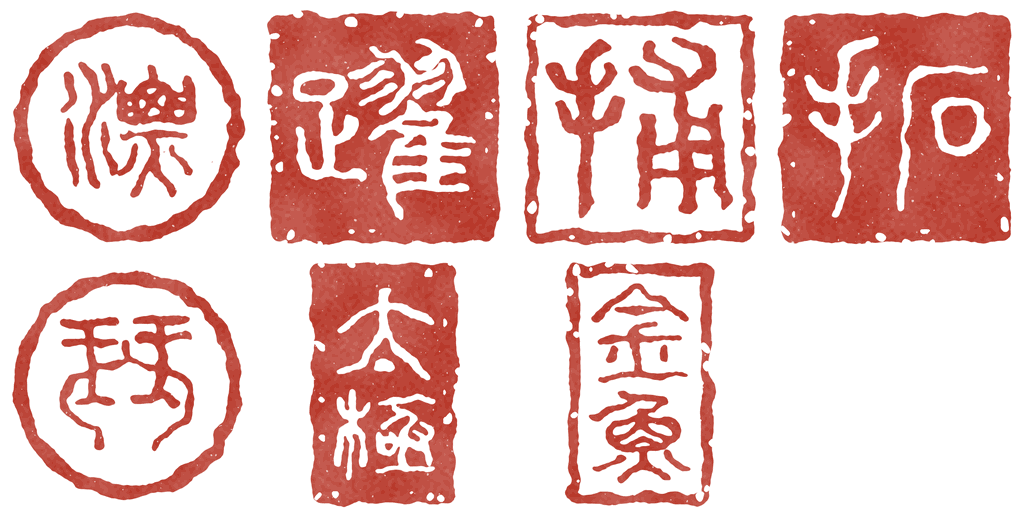
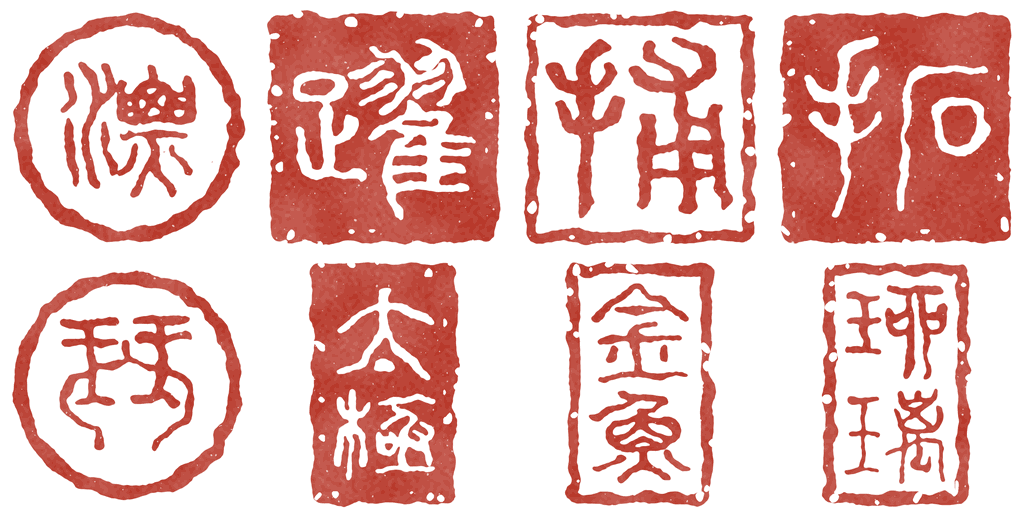
feat(pond): the last leap: the visitor's koi goes down as a dragon (#362)
* feat(pond): the Dragon Gate, waiting for its dragon's picture

Every third leap of a visit, the koi goes as a dragon: it winds once
round the open water and climbs away over the top, with ripples under
it, a gold light about its head on the water, and the seal 龙.

The dragon is a painted sheet laid in slices along the way its head has
gone, as a painted koi is laid along its spine. No picture has come
yet, so no dragon rises and the seal is a preview: nothing a visitor
sees changes. The brief for the picture is "The dragon sheet" in
docs/agents/pond.md, and docs/agents/pond-handoff.md says how the
thread that paints it hands it back.

Claude-Session: https://claude.ai/code/session_01NUmm5dS9r3NtvAbw8n1VEZ

* docs(pond): ask for the Dragon Gate's seal on the second sheet

The seal 龙 takes one of the two empty cells of the second sheet of
seals, which is still asked for; until it comes the seal is its
character in the brush, as the other idle seals are.

Claude-Session: https://claude.ai/code/session_01NUmm5dS9r3NtvAbw8n1VEZ

* feat(pond): add two painted clues and the occasions' seals

What the brief asked of the local thread:

- Monet's clue, a lily pad in the painting's hand with its rim alone
  in the bowl's cobalt, and the bowl's clue, a reign mark under a film
  of ochre dust with strokes wiped through it. Both are from the image
  model, reduced to the sizes asked and feathered to nothing.
- A second sheet of seals for the volume of occasions: 雨, 雪, 月, 节,
[…]

Changed region(s): [[0.7812, 0.5, 0.9688, 1.0]]

diff --git a/src/pond/engine.js b/src/pond/engine.js
@@ -44,7 +44,7 @@ import { titleWords } from './words';
 import { describe, rub, strokeLifted, strokeMoving, tapsLook, thrown } from './gestures';
 import { crowdsPainting, underPainting } from './hang.js';
 import { paintingOf, seasonAmounts } from './seasons.js';
-import { dragonCopy, dragonHead, dragonSrc, drawDragon, drawDragonStars, makeDragon } from './dragon.js';
+import { dragonCopy, dragonHead, dragonSpine, dragonSrc, drawDragon, drawDragonStars, makeDragon } from './dragon.js';
 import {
   KOI_SHEETS,
   MONET,
@@ -2390,7 +2390,10 @@ function leapNow() {
   if (gather.n < 4 || T - gather.at > 8) return;
   const near = kois.filter((k) => k !== you && k.alpha > 0.5 && Math.hypot(k.x - gather.x, k.y - gather.y) < 170);
   if (near.length < 3) return;
-  const k = near.reduce((a, b) => (b.size > a.size ? b : a));
+  // The last leap: with every look found, the first leap of a visit is the visitor's own koi's, and it goes
+  // as a dragon that does not leave over the top but winds down into the middle of the pond.
+  const last = !lastLeap && you.alpha > 0.5 && dragonPic() && VOLS.slice(0, 2).every((v) => full(album, v)),
+    k = last ? you : near.reduce((a, b) => (b.size > a.size ? b : a));
   gather.n = 0;
   k.leap = T;
   k.burst = 1;
@@ -2400,6 +2403,10 @@ function leapNow() {
   // every third leap of a visit clears the Dragon Gate, where the look on show has a dragon: at the top of
   // it the koi does not turn back
   const gate = dragonPic();
+  if (last) {
+    lastLeap = true;
+    return void setTimeout(() => riseDragon(k, null, true), 550);
+  }
   if (++leaps % 3 === 0 && gate) return void setTimeout(() => riseDragon(k), 550);
   setTimeout(() => {
     drop(k.x, k.y, 5.5, 2.4);
@@ -2439,7 +2446,8 @@ addEventListener('keydown', (e) => {
 // the water, lighting it gold. The koi is back in the pond once the dragon has gone, and the visit has its
 // seal. Its picture is fetched at the first leap, so it has come by the third. (`pin` holds the dragon at one
 // moment and `src` is a picture to try, both for a tool: `window.__pond.dragon`.)
-let leaps = 0;
+let leaps = 0,
+  lastLeap = false;
 const dragon = { d: null, k: null, at: 0, pin: null, src: '', wake: 0, x: 0, y: 0, lit: 0 },
   dragonPics = new Map();
 function dragonPic() {
@@ -2458,10 +2466,10 @@ function dragonPic() {
   }
   return dragonPics.get(src);
 }
-function riseDragon(k, pin) {
+function riseDragon(k, pin, dive) {
   // (one dragon at a time: the koi of one still in the air is let back first)
   if (dragon.d) dragon.k.shown = true;
-  Object.assign(dragon, { d: makeDragon(k.x, k.y, W, H), k, at: performance.now() / 1000, pin: pin ?? null });
+  Object.assign(dragon, { d: makeDragon(k.x, k.y, W, H, dive), k, at: performance.now() / 1000, pin: pin ?? null });
   k.shown = false;
   drop(k.x, k.y, 7, 3);
   plip('dragon');
@@ -2476,6 +2484,8 @@ function dragonNow() {
   const t = dragon.pin ?? performance.now() / 1000 - dragon.at;
   // (gone over the top, or the look changed to one that has no dragon)
   if (t > d.time || !pic) {
+    // (where one went down, the water closes over it)
+    if (d.at && pic) drop(d.at[0], d.at[1], 8, 3.5);
     dragon.d = null;
     dragon.k.shown = true;
     reached('leap');
@@ -2484,7 +2494,10 @@ function dragonNow() {
   }
   [dragon.x, dragon.y] = dragonHead(d, t);
   dragon.lit = Math.min(1, t / 0.8, (d.time - t) / 1.5);
-  if (T > dragon.wake && dragon.y > 0) {
+  // (once its head has gone down it neither lights the water nor ripples it)
+  const under = d.hole >= 0 && dragonSpine(d, t, 1, 1).head > d.hole;
+  if (under) dragon.lit = 0;
+  if (T > dragon.wake && dragon.y > 0 && !under) {
     drop(dragon.x, dragon.y, 2.2, 0.45);
     dragon.wake = T + 0.1;
   }
@@ -3608,9 +3621,9 @@ if (PERF)
     bugs: () => bugs.length,
     // the dragon, now: held at `pin` seconds if given, and from the picture at `src` if given (one to try
     // before it is listed in DRAGONS); false until the picture has come
-    dragon: (pin, src) => {
+    dragon: (pin, src, dive) => {
       dragon.src = src || '';
-      return !!dragonPic() && (riseDragon(kois.find((k) => k !== you) || you, pin), true);
+      return !!dragonPic() && (riseDragon(kois.find((k) => k !== you) || you, pin, dive), true);
     },
     race: () => ({ fest: pv.fest, k: (performance.now() / 1000 - pv.boatAt) / 40, strokes: pv.strokes, won: pv.won }),
     pads: () => padSpots.map((q) => [Math.round(q.x), Math.round(q.y), Math.round(q.r)])

diff --git a/src/pond/dragon.js b/src/pond/dragon.js
@@ -41,7 +41,7 @@ export const dragonScale = (W, H) => clamp(Math.min(W, H) / 800, 0.55, 1.15);
  * then turns up and climbs away, faster, until the last of its tail has left over the top. `time` is how
  * long that takes.
  */
-export function makeDragon(x0, y0, W, H) {
+export function makeDragon(x0, y0, W, H, dive = false) {
   const s = dragonScale(W, H),
     wide = W > 860,
     cx = wide ? W * 0.66 : W / 2,
@@ -57,16 +57,19 @@ export function makeDragon(x0, y0, W, H) {
     la = Math.atan2(y0 - cy, x0 - cx),
     swept = 0,
     out = -1,
-    far = 0;
+    far = 0,
+    hole = -1,
+    at = null;
   for (let i = 1; i < 60 * 18; i++) {
     const t = i * dt,
       rx = x - cx,
       ry = y - cy,
       r = Math.hypot(rx, ry) || 1;
     // the way it wants to go: round the circle and back on to it, or, once round, up and away, drawing in
-    // over the circle's middle as it climbs so it never leaves by a side
-    let wx = clamp((cx - x) / 200, -0.3, 0.3),
-      wy = -1;
+    // over the circle's middle as it climbs so it never leaves by a side; one that dives makes for the
+    // circle's middle instead, and goes down there
+    let wx = dive ? (cx - x) / r : clamp((cx - x) / 200, -0.3, 0.3),
+      wy = dive ? (cy - y) / r : -1;
     if (out < 0) {
       const pull = clamp((R - r) / R, -1, 1) * 1.5;
       wx = (-ry * dir + rx * pull) / r;
@@ -81,16 +84,23 @@ export function makeDragon(x0, y0, W, H) {
     turn -= Math.round(turn / TAU) * TAU;
     h += clamp(turn, -2.2 * dt, 2.2 * dt);
     // it comes up slowly and leaves fast; its heading swings from side to side as a snake's does
-    const v = 300 * s * (0.3 + 0.7 * ease(t / 1.2)) * (out < 0 ? 1 : 1 + 1.7 * ease((t - out) / 1.5)),
+    const v = 300 * s * (0.3 + 0.7 * ease(t / 1.2)) * (out < 0 ? 1 : dive ? clamp(r / (200 * s), 0.4, 1) : 1 + 1.7 * ease((t - out) / 1.5)),
       a = h + 0.4 * Math.sin((far / (230 * s)) * TAU);
     x += Math.cos(a) * v * dt;
     y += Math.sin(a) * v * dt;
     far += v * dt;
     path.push([x, y]);
     cum.push(far);
-    if (out >= 0 && y < -(LONG + 110) * s) break;
+    if (out >= 0 && !dive && y < -(LONG + 110) * s) break;
+    // (the place it goes down at, `at`, is where it first comes to the middle; its way runs on past it until
+    // the last of its tail has gone down too)
+    if (dive && out >= 0 && hole < 0 && r < 60 * s) {
+      hole = far;
+      at = [x, y];
+    }
+    if (hole >= 0 && far > hole + (LONG + 40) * s) break;
   }
-  return { path, cum, s, time: (path.length - 1) / 60 };
+  return { path, cum, s, hole, at, time: (path.length - 1) / 60 };
 }
 
 /** Its spine t seconds after it rose, head first, a joint every `ds` px: only as much of it as has come up. */
@@ -108,6 +118,7 @@ export function dragonSpine(d, t, ds, n) {
     const q = (at - cum[j]) / (cum[j + 1] - cum[j] || 1);
     P.push([path[j][0] + (path[j + 1][0] - path[j][0]) * q, path[j][1] + (path[j + 1][1] - path[j][1]) * q]);
   }
+  P.head = head;
   return P;
 }
 
@@ -139,13 +150,17 @@ export function drawDragon(c, d, t, pic, m = 1) {
     // its claws: else what stands out from the body fans open into a comb
     let turn = i < P.length - 2 ? way(i + 1) - a : 0;
     turn -= Math.round(turn / TAU) * TAU;
+    // (one that dives narrows to nothing as each part of it comes to the place it goes down at)
+    const deep = d.hole >= 0 ? clamp((d.hole - (P.head - (i * len) / n)) / (110 * d.s), 0, 1) : 1;
+    if (deep <= 0) continue;
     const more = Math.min(16 * d.s, Math.abs(turn) * h * 0.36),
       sx = SHEET.x0 + (span * i) / n,
       sw = Math.min(span / n + more / k + 1.5, SHEET.x1 + 40 - sx);
     c.save();
     c.translate(x0, y0);
     c.rotate(a);
-    c.drawImage(pic, sx * m, 0, sw * m, SHEET.h * m, -0.4, -h / 2, sw * k, h);
+    c.globalAlpha *= deep;
+    c.drawImage(pic, sx * m, 0, sw * m, SHEET.h * m, -0.4, (-h / 2) * deep, sw * k, h * deep);
     c.restore();
   }
 }

diff --git a/src/pond/dragon.test.ts b/src/pond/dragon.test.ts
@@ -49,6 +49,25 @@ describe('the way the dragon goes', () => {
   });
 });
 
+describe('the dragon that dives', () => {
+  it('stays in the pond, comes to the middle of its circle and has gone down there, tail and all', () => {
+    for (const [W, H] of PONDS)
+      for (const [x, y] of starts(W, H)) {
+        const d = makeDragon(x, y, W, H, true);
+        expect(d.hole).toBeGreaterThan(0);
+        expect(d.time).toBeLessThan(18);
+        for (const [px, py] of d.path) {
+          expect(px).toBeGreaterThan(-60);
+          expect(px).toBeLessThan(W + 60);
+          expect(py).toBeGreaterThan(-60);
+          expect(py).toBeLessThan(H + 60);
+        }
+        // by the end the whole of it is past the place it went down at
+        expect(d.cum[d.cum.length - 1] - 720 * d.s).toBeGreaterThanOrEqual(d.hole);
+      }
+  });
+});
+
 describe('its spine', () => {
   const d = makeDragon(300, 560, 1280, 800);
   it('comes up out of the water a joint at a time, head first', () => {

diff --git a/docs/agents/pond.md b/docs/agents/pond.md
@@ -167,6 +167,11 @@ words did not reach, there only for whoever asks.
   stroke of the paddles (`paddle()`), each sending it on a second and a half; ten before it is
   across (`ROW`) and it is drummed in at the far bank, with the seal. With `?perf`,
   `window.__pond` has the koi's places, the pads and the bugs, for a tool to play them.
+  **The last leap** is the end of the pond's through-line (a koi's life: it is watched, it finds the
+  looks, it grows with each, it leaps, it goes down): once both volumes of looks are full, the first
+  leap of a visit is the visitor's own koi's, and its dragon does not leave over the top but winds
+  in to the middle of its circle and goes down there, narrowing to nothing (`lastLeap` in
+  `engine.js`, `makeDragon(…, dive)` in `dragon.js`). What lies under the pond is not built yet.
   And **the koi's circle** (太极), in ink only: the old cheat typed on the keys (up up down down left
   right left right B A) and for three quarters of a minute the visitor's koi and the gold one swim
   head to tail round one point, as the two fish of the taiji do, with the rest in a wide ring the
@@ -466,7 +471,7 @@ its red), entering at the right edge and reaching left, the left third empty.
 | `stems.webp` | 42 KB | Withered lotus (残荷), 1024 × 1024 like the others and stored the same way (near-black, the tone in the alpha): three dry stems entering from the right edge and folding over, a seed-pod hanging at 538, 236 and a curled dead leaf below it; the paint is 538, 236, 486, 587, and the left half is empty. Sparse, as asked; the stems are thin, so it may want more strength than the reeds when multiplied in. |
 | `seals.webp` | 94 KB | 1024 × 768, cells of 256, 4 × 3, vermilion `#B8382A` with the tone in the alpha. Row 1: 墨 (square, white characters out of red), 浮世 (tall, red characters and border), 莲 (round, white), 青花 (tall, white). Row 2: 敦煌 (tall, red), 光 (round, red), 图 (square, white), 字 (square, red). Row 3: 星 (round, white), 刻 (square, white), 锦程 (tall, white, 锦 over 程), one cell empty. Square and round seals are 232 across, centred; tall ones 150 × 246. Small seal script from the Shuowen Jiezi face of Taiwan's CNS 11643 character set (an open-data font, not in the repository), cut as a seal carver writes them: 蓮, 圖 and 錦 in their full forms, 花 as 華 (the Shuowen has no 花), and 星 as three suns over 生. The edges, chips and pinholes are made in code, so every stone is worn alike; the characters are a dictionary's even line, not a carver's hand. |
 | `seals-2.webp` | 59 KB | 1024 × 512, cells of 256, 4 × 2, cut and coloured as `seals.webp` is (the same face, vermilion, the tone in the alpha, 232 across and centred). Row 1: 雨 (square, white characters out of red), 雪 (round, white), 月 (round, red characters and border), 节 (square, red). Row 2: 晨 (square, white), 舟 (round, white), 龙 (round, red, cut in its full form 龍), one cell empty. 节 is cut as 節; the face has no 雪, so it is built as the Shuowen has it, rain over a broom (雨 over 彗), and its lower half is finer than the rest. 月 and 舟 are the seal forms, which a reader of modern characters may take for each other. |
-| `seals-3.webp` | 58 KB | 1024 × 512, cells of 256, 4 × 2, cut and coloured as the first two are. Row 1: 漂 (round, red characters and border), 跃 (square, white characters out of red, cut as 躍), 捕 (square, red), 拓 (square, white). Row 2: 琴 (round, red), 太极 (tall, white, 太 over 極), 金鱼 (tall, red, 金 over 魚), one cell empty. The face has no 太: it is its 大 with a point set between the legs, as seal script writes it, and the point is rounder than a cut one. 躍 is a dense character and its strokes are fine at the size a seal is shown. |
+| `seals-3.webp` | 65 KB | 1024 × 512, cells of 256, 4 × 2, cut and coloured as the first two are. Row 1: 漂 (round, red characters and border), 跃 (square, white characters out of red, cut as 躍), 捕 (square, red), 拓 (square, white). Row 2: 琴 (round, red), 太极 (tall, white, 太 over 極), 金鱼 (tall, red, 金 over 魚), 琉璃 (tall, red, the stained glass look's). 琉 is cut as 珋, the form the Shuowen has for it; the face has no 璃, which is later than the Shuowen, so it is built as the later character is, the face's 玉 beside its 离, and its 玉 stands a little apart. The face has no 太: it is its 大 with a point set between the legs, as seal script writes it, and the point is rounder than a cut one. 躍 is a dense character and its strokes are fine at the size a seal is shown. |
 | `dove.webp`, `spider.webp` | 16 KB and 27 KB | 768 × 256 each, three poses in 256-pixel cells, from above, facing right, at one scale, stored as the others are. The dove left as bare paper inside a few dark strokes at wing tips and tail: sitting (115 × 54), wings half open (117 × 134), flying (117 × 234). The spider in wet grey and black: sitting (193 × 94), walking (189 × 144), jumping (234 × 170). The dove's body has no tone of its own, so on the paper only its edges and tips show. |
 
 
@@ -727,6 +732,9 @@ drawn in code, and what is still drawn in code that a picture would better is on
    midge seen from above, its wings out in the first cell and beaten back in the second; a dark
    body, pale wings you can see through. It is drawn about 12 pixels long, so it must be bold
    (`drawBugs()` in `engine.js`; nothing is drawn until the picture has come).
+5. **A new look, stained glass, in the blueprint's place**: its kit is "Stained glass" below, with
+   the order to make it in. All eight lines are delivered, to wire in; what came out is in the
+   table under the kit.
 
 **The round asked for before** (every line is already in a look's kit below, or is new there; make them
 in this order, commit each lot as it is done, and say in its table what came out):
@@ -1036,6 +1044,64 @@ bokashi gradation, paper showing.
    construction lines, line only, no fill, the line `#EAF3FF`.
 6. Dove and spider: delivered and in use: the same as line drawings, one pose each, 512 × 512.
 Everything else is ruled in the shader. Nothing more wanted.
+
+**Stained glass** (asked for now; it takes the blueprint's place, which was the one look with no
+art of its own behind it). A new folder named stained under `public/pond/`. Judge it by: a
+Gothic rose window or a Tiffany pond panel with daylight behind it, seen at arm's length: jewel
+colours, every shape a piece of glass held in black lead, no modelling but the glass's own streaks
+and a little matt painted line. Make them in this order; the bed alone is enough to judge the look.
+1. **P0, delivered, to wire in:** the bed, `bed.webp`, 2048 × 1152, opaque to every edge, with `bed-tall.webp`, 1080 × 1920,
+   the same window composed again upright (not a crop). The pond as a leaded window seen from
+   above, with nothing in it: water in panes of deep blue, blue-green and a little violet and amber,
+   the panes long and curved like ripples and currents, 60 to 200 pixels across, each with the
+   streaks and seeds of hand-made glass; black lead lines 5 to 7 pixels wide between all of them,
+   with a solder dot where lines meet. No fish, no plants, no frame, no figures, no text. The left
+   third (the top third of the upright one) in darker, larger, quieter panes: the title's type stands
+   there. The shader lays the daylight and the moving water over it. Under 300 KB and 120 KB (a bed
+   may pass the budget, with its line in the size check).
+2. **P0, asked again** (the first version is far plainer than the bed and the dragon: four or five
+   flat pieces a fish, which reads as clip art; the line that asked for "three or four pieces" was
+   wrong). `koi.webp` and `koi-mask.webp`, to the common spec ("The koi sheet"): each koi as a
+   Tiffany window builds a fish, as richly as the bed is built: 40 pieces of glass or more to a
+   koi. The scales are rows of small pieces across the body, each row a little different in tone;
+   the head is several pieces (cheeks, brow, muzzle) with a painted eye; every fin and the tail is
+   fanned into six or more ribbed pieces; the glass is streaky and mottled, never one flat colour,
+   and the lead is as fine as the bed's. Row 1 ambers and golds with touches of orange, row 2
+   milk-white and pearl opal glass with one ruby piece on the head, rows 3 and 4 in greys with three
+   or four patches, each patch a group of scales, to tint (the mask is those). The rows of scales
+   run across the body, so the koi can bend. The dragon delivered is the measure of detail.
+3. **P0, delivered, to wire in:** `dragon.webp`, to "The dragon sheet": a dragon in glass and lead, amber and gold with ruby
+   for the crest, the mane and the tail's tuft, its scales as small leaded pieces in rows.
+4. **P1, asked again** (the first version's pads are a disc cut into wedges). `lilies.webp`,
+   1024 × 512, 4 × 2: three lily pads from above (large, medium, small), two lotus flowers, a bud,
+   a seed-pod and a withered pad for autumn, each as a Tiffany window builds one: a pad of 15 pieces
+   or more, its veins branching as lead lines from the stalk and not as straight spokes, in three
+   or four streaky greens with a paler rim; a flower of two or three rings of petals, each petal two
+   pieces (a pale tip, a deeper base) in pink and white opal glass round an amber heart.
+5. **P1, delivered, to wire in:** `clue.webp`, 400 × 120 with alpha, shown 200 px across: a banderole as a window letters
+   one, a pale scroll of glass in lead with five small empty quarries in a row where its words would
+   be. It points to ASCII (five letters typed).
+6. **P1, delivered, to wire in:** its seal, 琉璃 (tall, 朱, 琉 over 璃), in the one empty cell of `seals-3.webp` (column 4,
+   row 2), cut as the others are.
+7. **P1, delivered, to wire in:** `afloat.webp`, 1024 × 512, 4 × 2, as every painted look has: two spring petals, two autumn
+   leaves, a snow crystal, a frost flower, a dragonfly and a butterfly, each a small piece or two of
+   glass in lead.
+8. **P2, delivered, to wire in:** `dove.webp` and `spider.webp`, 768 × 256, three poses each, as the other looks have them,
+   in glass and lead.
+
+What has come, in `public/pond/stained/`, all made by the image model and none yet seen in the pond:
+
+| File | Size | What is in it |
+| --- | --- | --- |
+| `bed.webp` | 2048 × 1152, 192 KB | The water as a leaded window, opaque to every edge: panes like long leaves lying along a current that runs from the lower left to the upper right, about 160 × 70 pixels each (from 100 to 220 across), in navy (`#001035`), cobalt (`#004ec0`) and blue-green (`#0093b8`) with a few in violet; five small amber panes, all in the right two thirds. Black lead about 6 pixels wide with small solder dots at the joints. The left third is in dark navy and dark green panes, a quarter as bright as the rest (a mean of 18 in 255 against 63 and 70). It was made at 1672 × 941 and enlarged, so it is a little soft; encoded at quality 52 to keep within the budget for a file, with no line in the size check. The glass's streaks stand a little in relief in places, more like rippled glass than flat. |
+| `bed-tall.webp` | 1080 × 1920, 161 KB | The same window composed upright: the same glass and palette, the dark quiet panes in the top third (22 against 68 and 72), six amber panes below it. Its lead is thinner than the wide one's (about 4.5 pixels) and its panes longer (about 230 × 90). Over the 120 KB asked for: the streaks of the glass cost that much, and at quality 30 the leads still hold; lower, the panes smear. |
+| `koi.webp` | 1024 × 1536, 140 KB | Four koi from straight above in rows of 384, heads to the left, each from the barbels at x 62 to the tail tip at x 962, the spine on its row's middle line, the paint from 34 to 347 down each row. Each is nine pieces of glass in black lead: a head, three bands of body divided by leads that cross it (none runs along it), two pairs of fins with painted rays, a forked tail; the eyes are painted dots. Row 1: an amber head and tail, a gold body and fins. Row 2: milk-white, with one round ruby piece leaded into the head. Rows 3 and 4: greys. All four are one cutting but for row 4's head, which has a shield-shaped piece inset. The pieces are few and plain and the streaks faint, so at full size it reads flatter than the bed, nearer a paper cut-out than glass; the spine wanders up to 5 pixels in rows 3 and 4. |
+| `koi-mask.webp` | 1024 × 1536, 8 KB | White over the pieces to tint, soft by 2 pixels, black elsewhere, cut from the same pictures as the koi (the pieces were painted magenta, then turned to a middle grey), so it lines up to the pixel. Row 3: the first band of the body, the two front fins and the tail (48% of the fish). Row 4: the inset piece on the head, the second band and the tail's stalk (22%). Whole pieces are tinted, lead to lead, which is more of the fish than the other looks' patches. |
+| `dragon.webp` | 2048 × 512, 125 KB | The Dragon Gate's dragon in glass and lead: head to the left, the spine on y 256, the snout's tip at x 64 and the tail's at x 1984, one straight picture scaled evenly to those two points. Amber and gold scales as small leaded pieces in rows of arcs, about four across the body, a chain of ruby pieces down the spine, a ruby mane and tail flame, a cream muzzle, antlers, whiskers and claws, painted eyes under brows. Paint from y 111 to 401; legs at x 446 and x 1021, the claws 145 pixels from the spine. The trunk is about 140 pixels across behind the shoulders, broader than the 100 asked for; the muzzle is short and scrolled; the outer lead is heavier than the inner ones, and the glass's streaks are dense, nearer marbled enamel in places. |
+| `lilies.webp` | 1024 × 512, 77 KB | Eight motifs in a 4 × 2 grid of 256-pixel cells, from above, at one scale, each at least 14 pixels clear of its cell. Top row: three pads with one notch each, in wedges of light and dark green whose leads are the veins (228, 180 and 130 pixels across), and an open lotus of two rings of petals, pink outside and white within, round a gold centre (212). Bottom row: a paler lotus of eight broad petals (204), a bud of three pink pieces (76 × 90), a seed-pod with seven dark holes (107), a withered pad in brown, amber and olive with a ragged edge (200 × 178). The pads' wedges are regular, more a wheel than a leaf, and the withered pad's curl is in its outline only. |
+| `afloat.webp` | 1024 × 512, 88 KB | Eight motifs in a 4 × 2 grid of 256-pixel cells, from above, each fitted to its cell with 16 pixels clear. Top row: a pink petal of two pieces with a cleft (it reads as a heart), a pale peach petal of one piece, a maple leaf in ruby and amber, a narrow leaf in amber and olive lying level. Bottom row: a snow crystal in pale blue, a frost flower of many small white pieces, a dragonfly with clear wings and a ruby body, a butterfly in ruby, amber and violet; the two flying things head to the right. The frost flower's pieces run together when small, and the butterfly's feelers are thin black lines that go on dark water. |
+| `clue.webp` | 400 × 120, 10 KB | A banderole lying level (370 × 90, centred): a scroll of straw-yellow glass with a curl and a forked end at each side, and in it five empty quarries of clear glass in a row, each in its own lead. No letter anywhere. |
+| `dove.webp`, `spider.webp` | 768 × 256, 13 KB and 18 KB | Three poses each in 256-pixel cells, from above, heads to the right, at one scale. The dove, in white and pale blue glass: sitting (99 × 50), wings half open (99 × 156, wider than the 130 asked for), flying (97 × 234); a wing is three or four pieces. The spider: an amber body with a ruby lozenge and a darker head, its eight legs lead itself with a joint each: sitting (137 × 121), walking (191 × 173), jumping (205 × 232). Its black legs go on the bed's dark third, as the dove's painted eye does at the size shown. |
 
 **ASCII.** Characters only. Nothing wanted.
 

diff --git a/docs/agents/pond-handoff.md b/docs/agents/pond-handoff.md
@@ -22,11 +22,21 @@ what is left, and what was learnt. What is open now is section 0.
   青花's, Dunhuang's, Monet's, the star chart's figure, the relief's pair); the second and third
   sheets of seals, so every seal is cut; painted clues for Monet's pond, the bowl, ukiyo-e and the
   star chart; the midge the spider hunts. Each was looked at in the pond at 1280 × 800.
-- **Still asked:** nothing, until the next game's pictures are written into the brief.
+- **Still asked: a whole new look, stained glass.** Jincheng: the blueprint is plain beside the
+  others, and the pond should gather the main schools of art, so stained glass takes its place. Its
+  kit is "Stained glass" in the brief, eight lines in the order to make them: the bed first (it is
+  enough to judge the look by), then the koi sheet and the dragon, then the rest. The cloud thread
+  builds the look as the pictures come and keeps the blueprint on show until the bed and the koi
+  are in.
 - **Asked again, where a picture can be bettered:** the cloud thread writes what to redo here and
   in the brief after seeing a picture in the pond; a second version takes the first one's name, and
   its table says what changed. Done so far, and in use: ukiyo-e's dragon (true proportions, fierce
   eyes, antlers, larger legs) and Monet's clue (its rim one loaded stroke). Nothing is open now.
+  **Open now, for stained glass** (Jincheng: the detail is far apart, it does not look good): the
+  bed and the dragon are right and stay; the koi and the lilies are far plainer than they are and
+  are asked again in the kit (items 2 and 4), which says how rich they must be. The first brief
+  was at fault, not the pictures. The clue, what drifts, the dove and the spider wait until the
+  koi are right, and are redone to the same richness only if they then look plain beside them.
 - **Handing a picture back:** commit it under `public/pond/<look>/` with the name the brief gives;
   run `node scripts/check-public-sizes.mjs` (200 KB a file); add its line to that look's table of
   pictures in pond.md, with what came out and what is weak; pull with rebase, and push. Leave the
